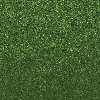
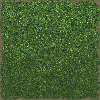
9

diff --git a/redice.js b/redice.js
@@ -52,7 +52,7 @@ var game =
 								{
 									back = true;
 									object.draw ();
-									o.zen (object);
+									o.zup (object);
 								}
 							}
 						}
@@ -105,6 +105,28 @@ var game =
 								{
 									object.draw ();
 									O.zen (object);
+								}
+							}
+						}
+					}
+				}
+
+				o.zup = function (O)
+				{
+					for (let id in game.object)
+					{
+						if (O.id != id)
+						{
+							let object = game.object[id];
+							if (!object.moved)
+							{
+								if (game.get.inbox (O, object))
+								{
+									if (O.z < object.z)
+									{
+										object.draw ();
+										O.zen (object);
+									}
 								}
 							}
 						}
@@ -254,6 +276,29 @@ var game =
 			return (r < R);
 		},
 
+		r: function (a, b, c)
+		{
+			let r = Math.random ();
+
+			if (b)
+			{
+				r = Math.random () * (b - a) + a;
+			}
+
+			if (c)
+			{
+				r = Math.floor (Math.random () * (b - a + 1)) + a;
+			}
+
+			if (Array.isArray (a))
+			{
+				let i = Math.floor (Math.random () * (a.length));
+				r = a[i];
+			}
+
+			return r;
+		},
+
 		w: function (o)
 		{
 			let w = (o.w > 1) ? o.w : o.w * game.canvas.width;
@@ -301,7 +346,7 @@ var game =
 	time: 0
 }
 
-game.get.i = [ 'grass' ];
+game.get.i = [ 'grass', 'grass2' ];
 
 window.onload = game.run;
 
@@ -309,7 +354,7 @@ game.scene.test = function ()
 {
 	game.create.box
 	({
-		h: 0.2,
+		h: 0.1,
 		movable: true,
 		wk: 1,
 		x: 0.55, xk: 0.5,
@@ -363,11 +408,11 @@ game.scene.test = function ()
 		{
 			game.create.sprite
 			({
-				h: 0.1,
-				i: game.i.grass,
-				w: 0.1,
-				x: i * 0.1,
-				y: j * 0.1
+				h: 50,
+				i: game.get.r ([ game.i.grass, game.i.grass2 ]),
+				w: 50,
+				x: 400 + j * 50,
+				y: 100 + i * 50
 			}).load ();
 		}
 	}
